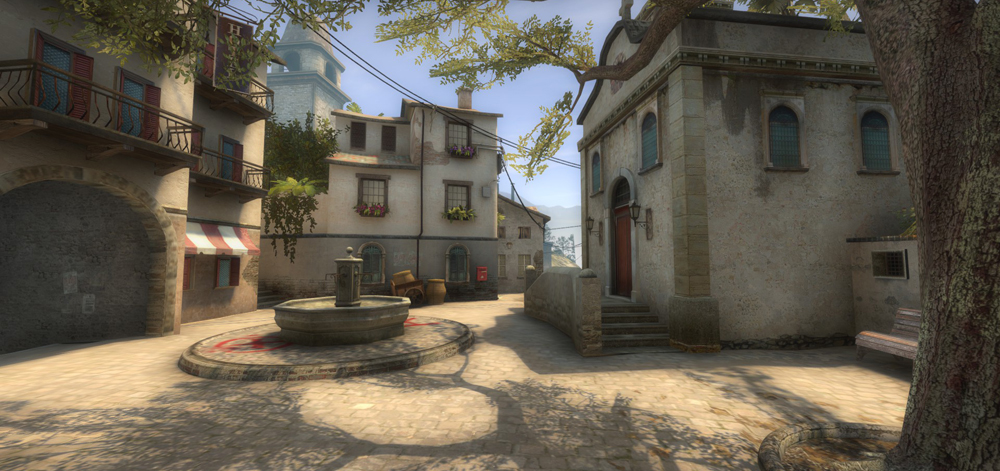
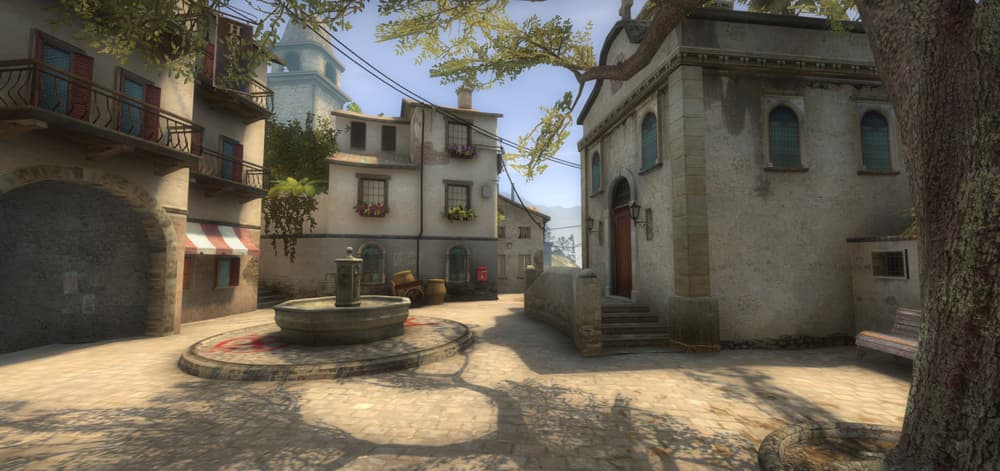
compress map screenshots
they look pretty similar when viewed at full resolution, and since they're a bit blurred maybe even better when used in the little .map things

used squoosh.app to compress

diff --git a/public/css/app.css b/public/css/app.css
@@ -1,1 +1,1 @@
-/*! normalize.css v8.0.1 | MIT License | github.com/necolas/normalize.css */html{line-height:1.15;-webkit-text-size-adjust:100%}body{margin:0}main{display:block}h1{font-size:2em;margin:.67em 0}hr{box-sizing:content-box;height:0;overflow:visible}pre{font-family:monospace,monospace;font-size:1em}a{background-color:transparent}abbr[title]{border-bottom:none;text-decoration:underline;-webkit-text-decoration:underline dotted;text-decoration:underline dotted}b,strong{font-weight:bolder}code,kbd,samp{font-family:monospace,monospace;font-size:1em}small{font-size:80%}sub,sup{font-size:75%;line-height:0;position:relative;vertical-align:baseline}sub{bottom:-.25em}sup{top:-.5em}img{border-style:none}button,input,optgroup,select,textarea{font-family:inherit;font-size:100%;line-height:1.15;margin:0}button,input{overflow:visible}button,select{text-transform:none}[type=button],[type=reset],[type=submit],button{-webkit-appearance:button}[type=button]::-moz-focus-inner,[type=reset]::-moz-focus-inner,[type=submit]::-moz-focus-inner,button::-moz-focus-inner{border-style:none;padding:0}[type=button]:-moz-focusring,[type=reset]:-moz-focusring,[type=submit]:-moz-focusring,button:-moz-focusring{outline:1px dotted ButtonText}fieldset{padding:.35em .75em .625em}legend{box-sizing:border-box;color:inherit;display:table;max-width:100%;padding:0;white-space:normal}progress{vertical-align:baseline}textarea{overflow:auto}[type=checkbox],[type=radio]{box-sizing:border-box;padding:0}[type=number]::-webkit-inner-spin-button,[type=number]::-webkit-outer-spin-button{height:auto}[type=search]{-webkit-appearance:textfield;outline-offset:-2px}[type=search]::-webkit-search-decoration{-webkit-appearance:none}::-webkit-file-upload-button{-webkit-appearance:button;font:inherit}details{display:block}summary{display:list-item}[hidden],template{display:none}a{color:inherit}a:active,a:hover{text-decoration:none}.text-ellipsis{max-width:100%;overflow:hidden;text-overflow:ellipsis;white-space:nowrap}img.inline-flag{max-height:1em}.player-name{display:flex;align-items:center}.player-name.\--left img.inline-flag{margin-left:0}.player-name:not(.\--left){justify-content:flex-end}.player-name img.inline-flag{margin:0 .75ch}section:not(:last-child){margin-bottom:2rem}*,:after,:before{box-sizing:border-box;margin:0;padding:0}html{font-size:62.5%}body{background:#212121;color:#aeaeae;font:1.6rem/1.5em Source Sans Pro,sans-serif}.big-scoreboard td.team{text-align:center}.big-scoreboard td.team .name,.big-scoreboard td.team .total-score{font-size:2rem;line-height:3rem;font-weight:700}.big-scoreboard td.team .name img.flag{display:block;margin:0 auto}.big-scoreboard td.team .total-score{font-size:4rem;line-height:4rem}.big-scoreboard td.team img{height:1.5em;vertical-align:-.4em}.big-scoreboard td.team .additional-scores .score{display:inline-block;min-width:5ch;text-align:center}.big-scoreboard td.team .additional-scores img.side{max-height:1em;vertical-align:-.25em;width:auto}.big-scoreboard td.player-name-wrapper{max-width:20rem}.big-scoreboard td.player-name-wrapper .name-wrapper{max-width:100%}.cards{display:flex;flex-wrap:wrap;margin:0 -.75rem}.cards .card{border-radius:.3rem;margin:.75rem;padding-right:1.5rem}.cards .card:not(:last-child){border-right:2px solid #00f7e1}.cards .card .title{font-size:1.4rem;line-height:1.4rem;text-transform:uppercase;font-weight:600}.cards .card.\--highlighted .title{color:#00f7e1}.cards .card.\--alert .title{color:#f44}main{max-width:100vw;margin:2rem auto;padding:0 4rem}.filter{padding:.5rem 1rem;text-align:right;width:-webkit-max-content;width:-moz-max-content;width:max-content;margin:0 0 2rem auto;box-shadow:0 0 .5rem rgba(0,0,0,.25)}.filter,header{background:#333}header{display:flex;align-items:center;justify-content:space-between;padding-right:4rem}header a.logo{font-size:2rem;line-height:2rem;display:block;padding:2rem 4rem;text-decoration:none;font-weight:600}header nav ul{display:flex;align-items:center;justify-content:flex-end;list-style:none}header nav a{display:block;padding:.5rem 1rem}.input-group:not(:last-child){margin-bottom:2rem}button,input[type=datetime-local],input[type=number],input[type=text],select{padding:.6rem 1.2rem;font:inherit}.map{display:block;background:#333 50% no-repeat;background-size:cover;text-align:center}.map .inner{display:flex;flex-direction:column;justify-content:center;align-items:center;height:100%;padding:1rem 2rem;background:rgba(0,0,0,.65)}.map.\--hero{min-height:6.8rem;margin:2rem 0;box-shadow:0 0 .5rem rgba(0,0,0,.25)}.map.\--de_abbey{background-image:url(/images/de_abbey.png?96009e70d763990014efbe327e63d699)}.map.\--de_ali{background-image:url(/images/de_ali.jpg?f05df1f777507eec2b6631775c241bcb)}.map.\--de_anubis{background-image:url(/images/de_anubis.png?4809639146befab717a184e324c1012e)}.map.\--de_austria{background-image:url(/images/de_austria.png?d42e8eeb3acc81f5d314ce537cf69908)}.map.\--de_aztec{background-image:url(/images/de_aztec.png?75de34e331304df5a7886c46d23712a0)}.map.\--de_bank{background-image:url(/images/de_bank.png?aa8568a0f0616099289f2d6fb0f3249b)}.map.\--de_cache{background-image:url(/images/de_cache.png?fcb7b6ab7b6a0bff3c054cbdb2293e3a)}.map.\--de_canals{background-image:url(/images/de_canals.png?d1be341845a85df8c4b565fa6cebb22b)}.map.\--de_castle{background-image:url(/images/de_castle.png?7119a0ef28b8031b7d7bef7658b58961)}.map.\--de_cbble{background-image:url(/images/de_cbble.png?e6a76c010d052be92d05beaf23be456c)}.map.\--de_chlorine{background-image:url(/images/de_chlorine.png?ae72a6b21fa6b3e293cbf231dfea6392)}.map.\--de_dust2{background-image:url(/images/de_dust2.png?dd312fb7f28f31091327a9245b105d10)}.map.\--de_inferno{background-image:url(/images/de_inferno.png?799e4e361ec86b7fa24dd7eee3177a4c)}.map.\--de_lake{background-image:url(/images/de_lake.png?5ae4eb76a5c677a72b19aa0faadcd5f6)}.map.\--de_mirage{background-image:url(/images/de_mirage.png?dbe0d160ad7bd03f79220bd64fa4e63e)}.map.\--de_nuke{background-image:url(/images/de_nuke.png?a1537df28891e6960afc9eddc70bf95a)}.map.\--de_overpass{background-image:url(/images/de_overpass.png?31c5592227fa491736c08ac04ead86b5)}.map.\--de_safehouse{background-image:url(/images/de_safehouse.png?514d9830cd73df4c8b0241b3c1526a29)}.map.\--de_santorini{background-image:url(/images/de_santorini.png?e0732a20176b16d086a4a0dd2a5d4146)}.map.\--de_season{background-image:url(/images/de_season.png?7712e2bcc2dd914b03863eb43cb4ce74)}.map.\--de_shortdust{background-image:url(/images/de_shortdust.png?0c24df20322e4e6a296c1a9e8e3aacc6)}.map.\--de_shortnuke{background-image:url(/images/de_shortnuke.png?a1537df28891e6960afc9eddc70bf95a)}.map.\--de_stmarc{background-image:url(/images/de_stmarc.png?9df3f870ce35baf638fd7d6824ef7762)}.map.\--de_sugarcane{background-image:url(/images/de_sugarcane.png?1b9bc86b76d152a00a692ace2aaea843)}.map.\--de_train{background-image:url(/images/de_train.png?c544ac7d858f79e215d6a8c84ea4e05c)}.map.\--de_vertigo{background-image:url(/images/de_vertigo.png?71ca414bb30792b99651fb64cacefa29)}.map.\--de_zoo{background-image:url(/images/de_zoo.png?1dfde5c5f3936e30da3d24c11e934d4b)}.map.\--x_default{background-image:url(/images/random.png?0f9b9b2692e774ba0ac87b8e5a51e452)}a.map{box-shadow:0 0 .5rem rgba(0,0,0,.25);text-decoration:none}a.map:active .inner,a.map:hover .inner{background:rgba(0,0,0,.55);text-shadow:0 0 .2rem rgba(0,0,0,.75)}a.map .inner{transition:background-color .3s ease,text-shadow .3s ease}.matches-list{display:flex;justify-content:space-between;margin:0 -2rem}.matches-list a.match{display:block;flex-grow:2;flex-basis:0;margin:2rem}.matches-list a.match .score span{display:inline-block;min-width:3ch}.player-round-performance-graph .round{display:grid;grid-template-columns:1.5fr 1fr 12fr;grid-template-areas:"otherTeam roundMeta ownTeam"}.player-round-performance-graph .round-meta{grid-area:roundMeta}.player-round-performance-graph .event,.player-round-performance-graph .round-meta,.player-round-performance-graph .survived-win,.player-round-performance-graph .won-the-round{display:flex;flex-direction:column;justify-content:center;align-items:center}.player-round-performance-graph .team.\--other{grid-area:otherTeam;display:grid;grid-template-columns:auto 4rem;grid-template-areas:"wonTheRound survivedWin"}.player-round-performance-graph .team.\--own{grid-area:ownTeam;display:grid;grid-template-columns:4rem auto;grid-template-areas:"survivedWin events"}.player-round-performance-graph .won-the-round{grid-area:wonTheRound}.player-round-performance-graph .survived-win{padding:1rem}.player-round-performance-graph .events{grid-area:events;display:grid;grid-template-columns:6rem calc((100% - 6rem)/12) calc((100% - 6rem)/12) calc((100% - 6rem)/12) calc((100% - 6rem)/12) calc((100% - 6rem)/12) calc((100% - 6rem)/12) calc((100% - 6rem)/12) calc((100% - 6rem)/12) calc((100% - 6rem)/12) calc((100% - 6rem)/12) calc((100% - 6rem)/12) calc((100% - 6rem)/12)}.player-round-performance-graph .events .event{padding:1rem}.player-round-performance-graph .events .event.\--player-name{grid-area:1/2/1/14;font-size:2.5rem;line-height:3.125rem;font-weight:700;text-align:left;justify-content:flex-start;flex-direction:row;padding:1rem 2rem}.player-round-performance-graph .events .event.\--death{background:rgba(255,68,68,.35);color:#eaeaea}.player-round-performance-graph .events .event.\--death img.weapon{-webkit-filter:brightness(.9176);filter:brightness(.9176)}.player-round-performance-graph img{max-width:100%}.career-scores .filter label{padding:0 .5rem;cursor:pointer}.career-scores .filter label:last-of-type{padding-right:0}.career-scores .filter label input{margin-right:.5ch;vertical-align:-.1rem}.career-scores .included-map-images{display:flex}.career-scores .included-map-images .map{flex-grow:1;transition:opacity .3s ease,-webkit-filter .3s ease;transition:filter .3s ease,opacity .3s ease;transition:filter .3s ease,opacity .3s ease,-webkit-filter .3s ease}.career-scores .included-map-images .map:not(.\--active){-webkit-filter:grayscale(1);filter:grayscale(1);opacity:.6}.career-scores tbody td:first-child{max-width:16rem}.career-scores .weapon-kills-chart{display:grid}.career-scores .weapon-kills-chart .weapon-wrapper{position:relative}.career-scores .weapon-kills-chart .weapon-wrapper .tooltip,.career-scores .weapon-kills-chart .weapon-wrapper .tooltip:before,.career-scores .weapon-kills-chart .weapon-wrapper .weapon{background:#333}.career-scores .weapon-kills-chart .weapon-wrapper:nth-child(2n) .tooltip,.career-scores .weapon-kills-chart .weapon-wrapper:nth-child(2n) .tooltip:before,.career-scores .weapon-kills-chart .weapon-wrapper:nth-child(2n) .weapon{background:#444}.career-scores .weapon-kills-chart .weapon{height:100%}.career-scores .weapon-kills-chart .weapon:not(.\--empty){padding:1rem}.career-scores .weapon-kills-chart .weapon:not(:hover)+.tooltip-wrapper{display:none}.career-scores .weapon-kills-chart img{display:block;margin:0;height:1em}.career-scores .weapon-kills-chart .tooltip-wrapper{pointer-events:none;position:absolute;top:calc(-100% - 4rem);left:0;right:0;display:flex;justify-content:center}.career-scores .weapon-kills-chart .tooltip{width:10rem;padding:1rem 2rem;text-align:center;box-shadow:0 0 .5rem rgba(0,0,0,.25)}.career-scores .weapon-kills-chart .tooltip:before{content:"";height:1rem;width:1rem;display:block;position:absolute;bottom:-.5rem;left:calc(50% - .5rem);transform:rotate(45deg)}.career-scores .weapon-kills-chart .tooltip img{margin:0 auto}.round-graph .round,.round-graph .team-a,.round-graph .team-b{display:flex;justify-content:center}.round-graph .team-a,.round-graph .team-b{color:#000}.round-graph img{display:block;max-width:100%;margin:.25rem 0 .5rem}.round-graph .col{padding:0 .5rem;width:2.5rem;text-align:center}.round-graph .col:nth-child(15):not(:last-child),.round-graph .col:nth-child(30):not(:last-child),.round-graph .col:nth-child(36):not(:last-child),.round-graph .col:nth-child(42):not(:last-child),.round-graph .col:nth-child(48):not(:last-child),.round-graph .col:nth-child(54):not(:last-child),.round-graph .col:nth-child(60):not(:last-child){border-right:.2rem solid #eaeaea;width:2.7rem}.round-graph .col:nth-child(33):not(:last-child),.round-graph .col:nth-child(39):not(:last-child),.round-graph .col:nth-child(45):not(:last-child),.round-graph .col:nth-child(51):not(:last-child),.round-graph .col:nth-child(57):not(:last-child){border-right:.1rem solid #c7c7c7;width:2.6rem}.round-graph .col rect.dead{opacity:.25}.round-graph .col.\--t-color rect,.round-graph .col.\--t rect{fill:#fcdc55}.round-graph .col.\--ct-color rect,.round-graph .col.\--ct rect{fill:#46c8f3}.round-graph .round{font-size:1.2rem;line-height:1.2rem}.round-graph .team-a .col.\--t{background:linear-gradient(0deg,#fcdc55,transparent)}.round-graph .team-a .col.\--ct{background:linear-gradient(0deg,#46c8f3,transparent)}.round-graph .team-b .col.\--t{background:linear-gradient(180deg,#fcdc55,transparent)}.round-graph .team-b .col.\--ct{background:linear-gradient(180deg,#46c8f3,transparent)}.series{display:grid;grid-template-columns:4fr 2rem 4fr 1fr 4rem 1fr 4fr 2rem 4fr;grid-template-rows:auto auto auto;grid-template-areas:"playersA 0 name name name name name 1 playersB" "playersA 0 nameA scoreA 2 scoreB nameB 1 playersB" "matches matches matches matches matches matches matches matches matches";padding:2rem 4rem;background:#333;box-shadow:0 0 .5rem rgba(0,0,0,.25)}.series:not(:last-child){margin-bottom:2rem}.series a.series-name{grid-area:name;text-align:center;text-decoration:none}.series a.series-name h2{font-size:2.5rem;line-height:3.125rem;font-weight:700}.series a.series-name .small{display:grid;grid-template-columns:1fr 4rem 1fr;text-transform:uppercase;letter-spacing:.5rem;text-align:right}.series a.series-name .small :last-child{grid-area:1/3;text-align:left}.series .matches-list{grid-area:matches;margin-bottom:-2rem}.series .team-name,.series .team-score{display:flex;justify-content:center;align-items:center;text-align:center;font-weight:700}.series .team-name{grid-area:nameA;font-size:2.5rem;line-height:3.125rem}.series .team-name.\--b{grid-area:nameB}.series .team-name img{max-height:3rem;display:block;margin:0 auto}.series .team-score{grid-area:scoreA;font-size:4rem;line-height:4rem}.series .team-score.\--b{grid-area:scoreB}.series .players{grid-area:playersA;text-align:right;display:flex;flex-direction:column;justify-content:flex-end}.series .players.\--b{grid-area:playersB}.series .players.\--b .player-name{flex-direction:row-reverse;text-align:left}table{border-collapse:collapse}table tr:hover td:not(.team):not(.round-graph){background:hsla(0,0%,100%,.05)}table:not(.small){width:100%}table:not(.small) th{padding:0 1rem;white-space:nowrap;text-align:right}table:not(.small) th a{text-decoration:none}table:not(.small) th a:before{position:absolute;transform:translateX(calc(-100% - .5ch))}table:not(.small) th a.is-asc:before{content:"\25B4"}table:not(.small) th a.is-desc:before{content:"\25BE"}table:not(.small) td{padding:.5rem 1rem;text-align:right}table.small td{padding:.5rem 1rem}.team-round-performance-graph .round{grid-template-columns:1fr 10rem 1fr;grid-template-areas:"teamA roundMeta teamB"}.team-round-performance-graph .round.\--team-names .team{grid-template-areas:"0 0 0 name name name 1 score score"}.team-round-performance-graph .round.\--team-names .team.\--b{grid-template-areas:"score score 0 name name name 1 1 1"}.team-round-performance-graph .round.\--team-names .team .name,.team-round-performance-graph .round.\--team-names .team .score{display:flex;align-items:center;justify-content:center;padding:1rem 2rem}.team-round-performance-graph .round.\--team-names .team .name{grid-area:name;font-size:2.5rem;line-height:3.125rem;font-weight:700}.team-round-performance-graph .round.\--team-names .team .name img{max-height:3rem;vertical-align:-.25em}.team-round-performance-graph .round.\--team-names .team .score{grid-area:score;font-size:4rem;line-height:4rem;font-weight:700}.team-round-performance-graph .best-flash,.team-round-performance-graph .damage,.team-round-performance-graph .first-death,.team-round-performance-graph .first-kill,.team-round-performance-graph .flashes,.team-round-performance-graph .kill-order,.team-round-performance-graph .kills,.team-round-performance-graph .money-eq,.team-round-performance-graph .nades-thrown,.team-round-performance-graph .plant-defuse,.team-round-performance-graph .round-meta,.team-round-performance-graph .survived-win{display:flex;flex-direction:column;align-items:center;justify-content:center;padding:1rem}.team-round-performance-graph .team{grid-area:teamA;display:grid;grid-template-columns:calc((100% - 4rem)/7) calc((100% - 4rem)/14) calc((100% - 4rem)/10.5) calc((100% - 4rem)/14) calc((100% - 4rem)/7) calc((100% - 4rem)/7) calc((100% - 4rem)/7) calc((100% - 4rem)/10.5) calc((100% - 4rem)/10.5) 4rem;grid-template-rows:-webkit-min-content auto;grid-template-rows:min-content auto;grid-template-areas:"bestFlash flashes nadesThrown damage firstDeath firstKill kills plantDefuse moneyEq survivedWin" "bestFlash flashes nadesThrown damage killOrder killOrder kills plantDefuse moneyEq survivedWin"}.team-round-performance-graph .team.\--winner{color:#212121}.team-round-performance-graph .team.\--winner svg rect{fill:#000}.team-round-performance-graph .team.\--winner .kill-order img{-webkit-filter:brightness(.13);filter:brightness(.13)}.team-round-performance-graph .team.\--winner.\--ct{background:linear-gradient(270deg,rgba(70,200,243,.85),rgba(70,200,243,.5))}.team-round-performance-graph .team.\--winner.\--t{background:linear-gradient(270deg,rgba(252,220,85,.8),rgba(252,220,85,.45))}.team-round-performance-graph .team.\--b{grid-area:teamB;grid-template-columns:4rem calc((100% - 4rem)/10.5) calc((100% - 4rem)/10.5) calc((100% - 4rem)/7) calc((100% - 4rem)/7) calc((100% - 4rem)/7) calc((100% - 4rem)/14) calc((100% - 4rem)/10.5) calc((100% - 4rem)/14) calc((100% - 4rem)/7);grid-template-rows:-webkit-min-content auto;grid-template-rows:min-content auto;grid-template-areas:"survivedWin moneyEq plantDefuse kills firstKill firstDeath damage nadesThrown flashes bestFlash" "survivedWin moneyEq plantDefuse kills killOrder killOrder damage nadesThrown flashes bestFlash"}.team-round-performance-graph .team.\--b.\--winner{color:#212121}.team-round-performance-graph .team.\--b.\--winner.\--ct{background:linear-gradient(90deg,rgba(70,200,243,.85),rgba(70,200,243,.5))}.team-round-performance-graph .team.\--b.\--winner.\--t{background:linear-gradient(90deg,rgba(252,220,85,.8),rgba(252,220,85,.45))}.team-round-performance-graph .team.\--b .table{text-align:left}.team-round-performance-graph .team.\--b .table .row{grid-template-columns:2.5ch auto}.team-round-performance-graph .team.\--b .table .col:first-child{grid-area:1/2}.team-round-performance-graph .team.\--b .table .col:last-child{grid-area:1/1}.team-round-performance-graph .heading{grid-row-end:2!important}.team-round-performance-graph .table{text-align:right}.team-round-performance-graph .table .row{display:grid;grid-template-columns:auto 2.5ch}.team-round-performance-graph .table .row .col:first-child{grid-area:1/1}.team-round-performance-graph .table .row .col:last-child{grid-area:1/2}.team-round-performance-graph .kills{grid-area:kills}.team-round-performance-graph .first-kill{grid-area:firstKill}.team-round-performance-graph .first-death{grid-area:firstDeath}.team-round-performance-graph .damage{grid-area:damage}.team-round-performance-graph .plant-defuse{grid-area:plantDefuse}.team-round-performance-graph .nades-thrown{grid-area:nadesThrown}.team-round-performance-graph .flashes{grid-area:flashes}.team-round-performance-graph .best-flash{grid-area:bestFlash}.team-round-performance-graph .kill-order{grid-area:killOrder;padding-top:0;flex-direction:row;margin:-.25rem}.team-round-performance-graph .kill-order img{height:1em;margin:.25rem}.team-round-performance-graph .kill-order img.death{opacity:.5}.team-round-performance-graph .money-eq{grid-area:moneyEq}h1{font-size:4rem;line-height:5rem;margin:0}h2{font-size:2.25rem;line-height:2.8125rem;margin-bottom:1rem}.pre-title+h1{margin-top:0}.text-green{color:#0f0}.text-red{color:#f44}.vertical-performance-graph .round{display:grid;text-align:center}.vertical-performance-graph .round:nth-child(2n){background:#333}.vertical-performance-graph .round:nth-child(17):not(:last-child),.vertical-performance-graph .round:nth-child(32):not(:last-child),.vertical-performance-graph .round:nth-child(38):not(:last-child),.vertical-performance-graph .round:nth-child(44):not(:last-child),.vertical-performance-graph .round:nth-child(50):not(:last-child),.vertical-performance-graph .round:nth-child(56):not(:last-child),.vertical-performance-graph .round:nth-child(62):not(:last-child){border-bottom:.4rem solid #eaeaea}.vertical-performance-graph .round:nth-child(35):not(:last-child),.vertical-performance-graph .round:nth-child(41):not(:last-child),.vertical-performance-graph .round:nth-child(47):not(:last-child),.vertical-performance-graph .round:nth-child(53):not(:last-child),.vertical-performance-graph .round:nth-child(59):not(:last-child){border-bottom:.1rem solid #c7c7c7}.vertical-performance-graph img.bombsite,.vertical-performance-graph img.weapon,.vertical-performance-graph img.win-reason{-webkit-filter:brightness(.9176);filter:brightness(.9176)}.vertical-performance-graph .team svg rect{fill:#fff}.vertical-performance-graph .team svg rect.dead{opacity:.25}.vertical-performance-graph .team.\--winner{color:#212121}.vertical-performance-graph .team.\--winner svg rect{fill:#000}.vertical-performance-graph .team.\--winner img.bombsite,.vertical-performance-graph .team.\--winner img.weapon,.vertical-performance-graph .team.\--winner img.win-reason{-webkit-filter:brightness(.13);filter:brightness(.13)}.vertical-performance-graph .team.\--winner.\--ct{background:linear-gradient(270deg,rgba(70,200,243,.85),rgba(70,200,243,.5))}.vertical-performance-graph .team.\--winner.\--t{background:linear-gradient(270deg,rgba(252,220,85,.8),rgba(252,220,85,.45))}.vertical-performance-graph .sticky{position:-webkit-sticky;position:sticky;top:0;background:#212121;z-index:1;border-bottom:.2rem solid #000}.vertical-performance-graph .round-meta{grid-area:roundMeta}.vertical-performance-graph .round-meta .number{font-weight:700}.vertical-performance-graph .heading{font-size:1.4rem;line-height:1.4rem;text-transform:uppercase;font-weight:600}.vertical-performance-graph .survived-win{grid-area:survivedWin}.vertical-performance-graph .survived-win .img-spacer,.vertical-performance-graph .survived-win img{height:2rem;margin:1rem 0 0}.vertical-performance-graph .name-wrapper{max-width:100%}.vertical-performance-graph img.weapon{height:1em;vertical-align:-.1em}.vertical-performance-graph img.bombsite{max-height:1.5em;margin-top:.2rem}body.route-player,body.route-team{overflow-x:hidden}body.route-player .stat-date-note,body.route-team .stat-date-note{text-align:center;color:#888;margin:2rem 0}body.route-status table{margin:0 -1rem}
+/*! normalize.css v8.0.1 | MIT License | github.com/necolas/normalize.css */html{line-height:1.15;-webkit-text-size-adjust:100%}body{margin:0}main{display:block}h1{font-size:2em;margin:.67em 0}hr{box-sizing:content-box;height:0;overflow:visible}pre{font-family:monospace,monospace;font-size:1em}a{background-color:transparent}abbr[title]{border-bottom:none;text-decoration:underline;-webkit-text-decoration:underline dotted;text-decoration:underline dotted}b,strong{font-weight:bolder}code,kbd,samp{font-family:monospace,monospace;font-size:1em}small{font-size:80%}sub,sup{font-size:75%;line-height:0;position:relative;vertical-align:baseline}sub{bottom:-.25em}sup{top:-.5em}img{border-style:none}button,input,optgroup,select,textarea{font-family:inherit;font-size:100%;line-height:1.15;margin:0}button,input{overflow:visible}button,select{text-transform:none}[type=button],[type=reset],[type=submit],button{-webkit-appearance:button}[type=button]::-moz-focus-inner,[type=reset]::-moz-focus-inner,[type=submit]::-moz-focus-inner,button::-moz-focus-inner{border-style:none;padding:0}[type=button]:-moz-focusring,[type=reset]:-moz-focusring,[type=submit]:-moz-focusring,button:-moz-focusring{outline:1px dotted ButtonText}fieldset{padding:.35em .75em .625em}legend{box-sizing:border-box;color:inherit;display:table;max-width:100%;padding:0;white-space:normal}progress{vertical-align:baseline}textarea{overflow:auto}[type=checkbox],[type=radio]{box-sizing:border-box;padding:0}[type=number]::-webkit-inner-spin-button,[type=number]::-webkit-outer-spin-button{height:auto}[type=search]{-webkit-appearance:textfield;outline-offset:-2px}[type=search]::-webkit-search-decoration{-webkit-appearance:none}::-webkit-file-upload-button{-webkit-appearance:button;font:inherit}details{display:block}summary{display:list-item}[hidden],template{display:none}a{color:inherit}a:active,a:hover{text-decoration:none}.text-ellipsis{max-width:100%;overflow:hidden;text-overflow:ellipsis;white-space:nowrap}img.inline-flag{max-height:1em}.player-name{display:flex;align-items:center}.player-name.\--left img.inline-flag{margin-left:0}.player-name:not(.\--left){justify-content:flex-end}.player-name img.inline-flag{margin:0 .75ch}section:not(:last-child){margin-bottom:2rem}*,:after,:before{box-sizing:border-box;margin:0;padding:0}html{font-size:62.5%}body{background:#212121;color:#aeaeae;font:1.6rem/1.5em Source Sans Pro,sans-serif}.big-scoreboard td.team{text-align:center}.big-scoreboard td.team .name,.big-scoreboard td.team .total-score{font-size:2rem;line-height:3rem;font-weight:700}.big-scoreboard td.team .name img.flag{display:block;margin:0 auto}.big-scoreboard td.team .total-score{font-size:4rem;line-height:4rem}.big-scoreboard td.team img{height:1.5em;vertical-align:-.4em}.big-scoreboard td.team .additional-scores .score{display:inline-block;min-width:5ch;text-align:center}.big-scoreboard td.team .additional-scores img.side{max-height:1em;vertical-align:-.25em;width:auto}.big-scoreboard td.player-name-wrapper{max-width:20rem}.big-scoreboard td.player-name-wrapper .name-wrapper{max-width:100%}.cards{display:flex;flex-wrap:wrap;margin:0 -.75rem}.cards .card{border-radius:.3rem;margin:.75rem;padding-right:1.5rem}.cards .card:not(:last-child){border-right:2px solid #00f7e1}.cards .card .title{font-size:1.4rem;line-height:1.4rem;text-transform:uppercase;font-weight:600}.cards .card.\--highlighted .title{color:#00f7e1}.cards .card.\--alert .title{color:#f44}main{max-width:100vw;margin:2rem auto;padding:0 4rem}.filter{padding:.5rem 1rem;text-align:right;width:-webkit-max-content;width:-moz-max-content;width:max-content;margin:0 0 2rem auto;box-shadow:0 0 .5rem rgba(0,0,0,.25)}.filter,header{background:#333}header{display:flex;align-items:center;justify-content:space-between;padding-right:4rem}header a.logo{font-size:2rem;line-height:2rem;display:block;padding:2rem 4rem;text-decoration:none;font-weight:600}header nav ul{display:flex;align-items:center;justify-content:flex-end;list-style:none}header nav a{display:block;padding:.5rem 1rem}.input-group:not(:last-child){margin-bottom:2rem}button,input[type=datetime-local],input[type=number],input[type=text],select{padding:.6rem 1.2rem;font:inherit}.map{display:block;background:#333 50% no-repeat;background-size:cover;text-align:center}.map .inner{display:flex;flex-direction:column;justify-content:center;align-items:center;height:100%;padding:1rem 2rem;background:rgba(0,0,0,.65)}.map.\--hero{min-height:6.8rem;margin:2rem 0;box-shadow:0 0 .5rem rgba(0,0,0,.25)}.map.\--de_abbey{background-image:url(/images/de_abbey.jpg?fa9390fea2fe26c7d6c5c5d06106c33a)}.map.\--de_ali{background-image:url(/images/de_ali.jpg?28e16fb2ffbdffd351a47186fc083905)}.map.\--de_anubis{background-image:url(/images/de_anubis.jpg?b17d4f1e651dcba4d45dab0a995a9bab)}.map.\--de_austria{background-image:url(/images/de_austria.jpg?cc91da8100f26199925ed270e5eb2ac3)}.map.\--de_aztec{background-image:url(/images/de_aztec.jpg?a8de61de21758d74f026d859ab7f5867)}.map.\--de_bank{background-image:url(/images/de_bank.jpg?e6a4c62303ff463280fe58206f6075a9)}.map.\--de_cache{background-image:url(/images/de_cache.jpg?879329f6d49a7eb78e3ab91cfa271c1a)}.map.\--de_canals{background-image:url(/images/de_canals.jpg?1d404de01b560586e4424c2fa74df691)}.map.\--de_castle{background-image:url(/images/de_castle.jpg?0b5e824281adfe2442291726cb049123)}.map.\--de_cbble{background-image:url(/images/de_cbble.jpg?f60b1b4f67bf6a8bdc3783b0519aa5d0)}.map.\--de_chlorine{background-image:url(/images/de_chlorine.jpg?c4cd31399c849dd1beaeb00bbb733c80)}.map.\--de_dust2{background-image:url(/images/de_dust2.jpg?2f8b74ae082744dcfccc59c7f55de13e)}.map.\--de_inferno{background-image:url(/images/de_inferno.jpg?b27da82e92c5989e3377e6c9ba0db257)}.map.\--de_lake{background-image:url(/images/de_lake.jpg?108bcf90a2047a400845262a9d6ac38b)}.map.\--de_mirage{background-image:url(/images/de_mirage.jpg?fa9d2765706af43c0ba8535dab2a123f)}.map.\--de_nuke{background-image:url(/images/de_nuke.jpg?054dd8ce170e4f8291127a01d7a7cadb)}.map.\--de_overpass{background-image:url(/images/de_overpass.jpg?49df3cec867c963aff1761a0f7b1ed33)}.map.\--de_safehouse{background-image:url(/images/de_safehouse.jpg?5202ffe66aef8c4530bfe71e8aa6fbdf)}.map.\--de_santorini{background-image:url(/images/de_santorini.jpg?626a3ae6e6dc4c2e5a78174568aab289)}.map.\--de_season{background-image:url(/images/de_season.jpg?d8a21d6d9eb02572bf7b27ffeecf6f3f)}.map.\--de_shortdust{background-image:url(/images/de_shortdust.jpg?c04f7ab51c70e8168ce1ffdedfce4cc2)}.map.\--de_shortnuke{background-image:url(/images/de_shortnuke.jpg?054dd8ce170e4f8291127a01d7a7cadb)}.map.\--de_stmarc{background-image:url(/images/de_stmarc.jpg?410ec622e0138a2067b668a1a6fa71cc)}.map.\--de_sugarcane{background-image:url(/images/de_sugarcane.jpg?c3749903b58f250cdae403c97ef11000)}.map.\--de_train{background-image:url(/images/de_train.jpg?e2afe3efc17278a0409694ae49c1dbc3)}.map.\--de_vertigo{background-image:url(/images/de_vertigo.jpg?adf4c4082a56e60e04cee97bc7dadcac)}.map.\--de_zoo{background-image:url(/images/de_zoo.jpg?f72e62cd4f8bcfbd0f3adfd222b747b7)}.map.\--x_default{background-image:url(/images/random.jpg?6bc697a4ddefb04058de6eae13925aef)}a.map{box-shadow:0 0 .5rem rgba(0,0,0,.25);text-decoration:none}a.map:active .inner,a.map:hover .inner{background:rgba(0,0,0,.55);text-shadow:0 0 .2rem rgba(0,0,0,.75)}a.map .inner{transition:background-color .3s ease,text-shadow .3s ease}.matches-list{display:flex;justify-content:space-between;margin:0 -2rem}.matches-list a.match{display:block;flex-grow:2;flex-basis:0;margin:2rem}.matches-list a.match .score span{display:inline-block;min-width:3ch}.player-round-performance-graph .round{display:grid;grid-template-columns:1.5fr 1fr 12fr;grid-template-areas:"otherTeam roundMeta ownTeam"}.player-round-performance-graph .round-meta{grid-area:roundMeta}.player-round-performance-graph .event,.player-round-performance-graph .round-meta,.player-round-performance-graph .survived-win,.player-round-performance-graph .won-the-round{display:flex;flex-direction:column;justify-content:center;align-items:center}.player-round-performance-graph .team.\--other{grid-area:otherTeam;display:grid;grid-template-columns:auto 4rem;grid-template-areas:"wonTheRound survivedWin"}.player-round-performance-graph .team.\--own{grid-area:ownTeam;display:grid;grid-template-columns:4rem auto;grid-template-areas:"survivedWin events"}.player-round-performance-graph .won-the-round{grid-area:wonTheRound}.player-round-performance-graph .survived-win{padding:1rem}.player-round-performance-graph .events{grid-area:events;display:grid;grid-template-columns:6rem calc((100% - 6rem)/12) calc((100% - 6rem)/12) calc((100% - 6rem)/12) calc((100% - 6rem)/12) calc((100% - 6rem)/12) calc((100% - 6rem)/12) calc((100% - 6rem)/12) calc((100% - 6rem)/12) calc((100% - 6rem)/12) calc((100% - 6rem)/12) calc((100% - 6rem)/12) calc((100% - 6rem)/12)}.player-round-performance-graph .events .event{padding:1rem}.player-round-performance-graph .events .event.\--player-name{grid-area:1/2/1/14;font-size:2.5rem;line-height:3.125rem;font-weight:700;text-align:left;justify-content:flex-start;flex-direction:row;padding:1rem 2rem}.player-round-performance-graph .events .event.\--death{background:rgba(255,68,68,.35);color:#eaeaea}.player-round-performance-graph .events .event.\--death img.weapon{-webkit-filter:brightness(.9176);filter:brightness(.9176)}.player-round-performance-graph img{max-width:100%}.career-scores .filter label{padding:0 .5rem;cursor:pointer}.career-scores .filter label:last-of-type{padding-right:0}.career-scores .filter label input{margin-right:.5ch;vertical-align:-.1rem}.career-scores .included-map-images{display:flex}.career-scores .included-map-images .map{flex-grow:1;transition:opacity .3s ease,-webkit-filter .3s ease;transition:filter .3s ease,opacity .3s ease;transition:filter .3s ease,opacity .3s ease,-webkit-filter .3s ease}.career-scores .included-map-images .map:not(.\--active){-webkit-filter:grayscale(1);filter:grayscale(1);opacity:.6}.career-scores tbody td:first-child{max-width:16rem}.career-scores .weapon-kills-chart{display:grid}.career-scores .weapon-kills-chart .weapon-wrapper{position:relative}.career-scores .weapon-kills-chart .weapon-wrapper .tooltip,.career-scores .weapon-kills-chart .weapon-wrapper .tooltip:before,.career-scores .weapon-kills-chart .weapon-wrapper .weapon{background:#333}.career-scores .weapon-kills-chart .weapon-wrapper:nth-child(2n) .tooltip,.career-scores .weapon-kills-chart .weapon-wrapper:nth-child(2n) .tooltip:before,.career-scores .weapon-kills-chart .weapon-wrapper:nth-child(2n) .weapon{background:#444}.career-scores .weapon-kills-chart .weapon{height:100%}.career-scores .weapon-kills-chart .weapon:not(.\--empty){padding:1rem}.career-scores .weapon-kills-chart .weapon:not(:hover)+.tooltip-wrapper{display:none}.career-scores .weapon-kills-chart img{display:block;margin:0;height:1em}.career-scores .weapon-kills-chart .tooltip-wrapper{pointer-events:none;position:absolute;top:calc(-100% - 4rem);left:0;right:0;display:flex;justify-content:center}.career-scores .weapon-kills-chart .tooltip{width:10rem;padding:1rem 2rem;text-align:center;box-shadow:0 0 .5rem rgba(0,0,0,.25)}.career-scores .weapon-kills-chart .tooltip:before{content:"";height:1rem;width:1rem;display:block;position:absolute;bottom:-.5rem;left:calc(50% - .5rem);transform:rotate(45deg)}.career-scores .weapon-kills-chart .tooltip img{margin:0 auto}.round-graph .round,.round-graph .team-a,.round-graph .team-b{display:flex;justify-content:center}.round-graph .team-a,.round-graph .team-b{color:#000}.round-graph img{display:block;max-width:100%;margin:.25rem 0 .5rem}.round-graph .col{padding:0 .5rem;width:2.5rem;text-align:center}.round-graph .col:nth-child(15):not(:last-child),.round-graph .col:nth-child(30):not(:last-child),.round-graph .col:nth-child(36):not(:last-child),.round-graph .col:nth-child(42):not(:last-child),.round-graph .col:nth-child(48):not(:last-child),.round-graph .col:nth-child(54):not(:last-child),.round-graph .col:nth-child(60):not(:last-child){border-right:.2rem solid #eaeaea;width:2.7rem}.round-graph .col:nth-child(33):not(:last-child),.round-graph .col:nth-child(39):not(:last-child),.round-graph .col:nth-child(45):not(:last-child),.round-graph .col:nth-child(51):not(:last-child),.round-graph .col:nth-child(57):not(:last-child){border-right:.1rem solid #c7c7c7;width:2.6rem}.round-graph .col rect.dead{opacity:.25}.round-graph .col.\--t-color rect,.round-graph .col.\--t rect{fill:#fcdc55}.round-graph .col.\--ct-color rect,.round-graph .col.\--ct rect{fill:#46c8f3}.round-graph .round{font-size:1.2rem;line-height:1.2rem}.round-graph .team-a .col.\--t{background:linear-gradient(0deg,#fcdc55,transparent)}.round-graph .team-a .col.\--ct{background:linear-gradient(0deg,#46c8f3,transparent)}.round-graph .team-b .col.\--t{background:linear-gradient(180deg,#fcdc55,transparent)}.round-graph .team-b .col.\--ct{background:linear-gradient(180deg,#46c8f3,transparent)}.series{display:grid;grid-template-columns:4fr 2rem 4fr 1fr 4rem 1fr 4fr 2rem 4fr;grid-template-rows:auto auto auto;grid-template-areas:"playersA 0 name name name name name 1 playersB" "playersA 0 nameA scoreA 2 scoreB nameB 1 playersB" "matches matches matches matches matches matches matches matches matches";padding:2rem 4rem;background:#333;box-shadow:0 0 .5rem rgba(0,0,0,.25)}.series:not(:last-child){margin-bottom:2rem}.series a.series-name{grid-area:name;text-align:center;text-decoration:none}.series a.series-name h2{font-size:2.5rem;line-height:3.125rem;font-weight:700}.series a.series-name .small{display:grid;grid-template-columns:1fr 4rem 1fr;text-transform:uppercase;letter-spacing:.5rem;text-align:right}.series a.series-name .small :last-child{grid-area:1/3;text-align:left}.series .matches-list{grid-area:matches;margin-bottom:-2rem}.series .team-name,.series .team-score{display:flex;justify-content:center;align-items:center;text-align:center;font-weight:700}.series .team-name{grid-area:nameA;font-size:2.5rem;line-height:3.125rem}.series .team-name.\--b{grid-area:nameB}.series .team-name img{max-height:3rem;display:block;margin:0 auto}.series .team-score{grid-area:scoreA;font-size:4rem;line-height:4rem}.series .team-score.\--b{grid-area:scoreB}.series .players{grid-area:playersA;text-align:right;display:flex;flex-direction:column;justify-content:flex-end}.series .players.\--b{grid-area:playersB}.series .players.\--b .player-name{flex-direction:row-reverse;text-align:left}table{border-collapse:collapse}table tr:hover td:not(.team):not(.round-graph){background:hsla(0,0%,100%,.05)}table:not(.small){width:100%}table:not(.small) th{padding:0 1rem;white-space:nowrap;text-align:right}table:not(.small) th a{text-decoration:none}table:not(.small) th a:before{position:absolute;transform:translateX(calc(-100% - .5ch))}table:not(.small) th a.is-asc:before{content:"\25B4"}table:not(.small) th a.is-desc:before{content:"\25BE"}table:not(.small) td{padding:.5rem 1rem;text-align:right}table.small td{padding:.5rem 1rem}.team-round-performance-graph .round{grid-template-columns:1fr 10rem 1fr;grid-template-areas:"teamA roundMeta teamB"}.team-round-performance-graph .round.\--team-names .team{grid-template-areas:"0 0 0 name name name 1 score score"}.team-round-performance-graph .round.\--team-names .team.\--b{grid-template-areas:"score score 0 name name name 1 1 1"}.team-round-performance-graph .round.\--team-names .team .name,.team-round-performance-graph .round.\--team-names .team .score{display:flex;align-items:center;justify-content:center;padding:1rem 2rem}.team-round-performance-graph .round.\--team-names .team .name{grid-area:name;font-size:2.5rem;line-height:3.125rem;font-weight:700}.team-round-performance-graph .round.\--team-names .team .name img{max-height:3rem;vertical-align:-.25em}.team-round-performance-graph .round.\--team-names .team .score{grid-area:score;font-size:4rem;line-height:4rem;font-weight:700}.team-round-performance-graph .best-flash,.team-round-performance-graph .damage,.team-round-performance-graph .first-death,.team-round-performance-graph .first-kill,.team-round-performance-graph .flashes,.team-round-performance-graph .kill-order,.team-round-performance-graph .kills,.team-round-performance-graph .money-eq,.team-round-performance-graph .nades-thrown,.team-round-performance-graph .plant-defuse,.team-round-performance-graph .round-meta,.team-round-performance-graph .survived-win{display:flex;flex-direction:column;align-items:center;justify-content:center;padding:1rem}.team-round-performance-graph .team{grid-area:teamA;display:grid;grid-template-columns:calc((100% - 4rem)/7) calc((100% - 4rem)/14) calc((100% - 4rem)/10.5) calc((100% - 4rem)/14) calc((100% - 4rem)/7) calc((100% - 4rem)/7) calc((100% - 4rem)/7) calc((100% - 4rem)/10.5) calc((100% - 4rem)/10.5) 4rem;grid-template-rows:-webkit-min-content auto;grid-template-rows:min-content auto;grid-template-areas:"bestFlash flashes nadesThrown damage firstDeath firstKill kills plantDefuse moneyEq survivedWin" "bestFlash flashes nadesThrown damage killOrder killOrder kills plantDefuse moneyEq survivedWin"}.team-round-performance-graph .team.\--winner{color:#212121}.team-round-performance-graph .team.\--winner svg rect{fill:#000}.team-round-performance-graph .team.\--winner .kill-order img{-webkit-filter:brightness(.13);filter:brightness(.13)}.team-round-performance-graph .team.\--winner.\--ct{background:linear-gradient(270deg,rgba(70,200,243,.85),rgba(70,200,243,.5))}.team-round-performance-graph .team.\--winner.\--t{background:linear-gradient(270deg,rgba(252,220,85,.8),rgba(252,220,85,.45))}.team-round-performance-graph .team.\--b{grid-area:teamB;grid-template-columns:4rem calc((100% - 4rem)/10.5) calc((100% - 4rem)/10.5) calc((100% - 4rem)/7) calc((100% - 4rem)/7) calc((100% - 4rem)/7) calc((100% - 4rem)/14) calc((100% - 4rem)/10.5) calc((100% - 4rem)/14) calc((100% - 4rem)/7);grid-template-rows:-webkit-min-content auto;grid-template-rows:min-content auto;grid-template-areas:"survivedWin moneyEq plantDefuse kills firstKill firstDeath damage nadesThrown flashes bestFlash" "survivedWin moneyEq plantDefuse kills killOrder killOrder damage nadesThrown flashes bestFlash"}.team-round-performance-graph .team.\--b.\--winner{color:#212121}.team-round-performance-graph .team.\--b.\--winner.\--ct{background:linear-gradient(90deg,rgba(70,200,243,.85),rgba(70,200,243,.5))}.team-round-performance-graph .team.\--b.\--winner.\--t{background:linear-gradient(90deg,rgba(252,220,85,.8),rgba(252,220,85,.45))}.team-round-performance-graph .team.\--b .table{text-align:left}.team-round-performance-graph .team.\--b .table .row{grid-template-columns:2.5ch auto}.team-round-performance-graph .team.\--b .table .col:first-child{grid-area:1/2}.team-round-performance-graph .team.\--b .table .col:last-child{grid-area:1/1}.team-round-performance-graph .heading{grid-row-end:2!important}.team-round-performance-graph .table{text-align:right}.team-round-performance-graph .table .row{display:grid;grid-template-columns:auto 2.5ch}.team-round-performance-graph .table .row .col:first-child{grid-area:1/1}.team-round-performance-graph .table .row .col:last-child{grid-area:1/2}.team-round-performance-graph .kills{grid-area:kills}.team-round-performance-graph .first-kill{grid-area:firstKill}.team-round-performance-graph .first-death{grid-area:firstDeath}.team-round-performance-graph .damage{grid-area:damage}.team-round-performance-graph .plant-defuse{grid-area:plantDefuse}.team-round-performance-graph .nades-thrown{grid-area:nadesThrown}.team-round-performance-graph .flashes{grid-area:flashes}.team-round-performance-graph .best-flash{grid-area:bestFlash}.team-round-performance-graph .kill-order{grid-area:killOrder;padding-top:0;flex-direction:row;margin:-.25rem}.team-round-performance-graph .kill-order img{height:1em;margin:.25rem}.team-round-performance-graph .kill-order img.death{opacity:.5}.team-round-performance-graph .money-eq{grid-area:moneyEq}h1{font-size:4rem;line-height:5rem;margin:0}h2{font-size:2.25rem;line-height:2.8125rem;margin-bottom:1rem}.pre-title+h1{margin-top:0}.text-green{color:#0f0}.text-red{color:#f44}.vertical-performance-graph .round{display:grid;text-align:center}.vertical-performance-graph .round:nth-child(2n){background:#333}.vertical-performance-graph .round:nth-child(17):not(:last-child),.vertical-performance-graph .round:nth-child(32):not(:last-child),.vertical-performance-graph .round:nth-child(38):not(:last-child),.vertical-performance-graph .round:nth-child(44):not(:last-child),.vertical-performance-graph .round:nth-child(50):not(:last-child),.vertical-performance-graph .round:nth-child(56):not(:last-child),.vertical-performance-graph .round:nth-child(62):not(:last-child){border-bottom:.4rem solid #eaeaea}.vertical-performance-graph .round:nth-child(35):not(:last-child),.vertical-performance-graph .round:nth-child(41):not(:last-child),.vertical-performance-graph .round:nth-child(47):not(:last-child),.vertical-performance-graph .round:nth-child(53):not(:last-child),.vertical-performance-graph .round:nth-child(59):not(:last-child){border-bottom:.1rem solid #c7c7c7}.vertical-performance-graph img.bombsite,.vertical-performance-graph img.weapon,.vertical-performance-graph img.win-reason{-webkit-filter:brightness(.9176);filter:brightness(.9176)}.vertical-performance-graph .team svg rect{fill:#fff}.vertical-performance-graph .team svg rect.dead{opacity:.25}.vertical-performance-graph .team.\--winner{color:#212121}.vertical-performance-graph .team.\--winner svg rect{fill:#000}.vertical-performance-graph .team.\--winner img.bombsite,.vertical-performance-graph .team.\--winner img.weapon,.vertical-performance-graph .team.\--winner img.win-reason{-webkit-filter:brightness(.13);filter:brightness(.13)}.vertical-performance-graph .team.\--winner.\--ct{background:linear-gradient(270deg,rgba(70,200,243,.85),rgba(70,200,243,.5))}.vertical-performance-graph .team.\--winner.\--t{background:linear-gradient(270deg,rgba(252,220,85,.8),rgba(252,220,85,.45))}.vertical-performance-graph .sticky{position:-webkit-sticky;position:sticky;top:0;background:#212121;z-index:1;border-bottom:.2rem solid #000}.vertical-performance-graph .round-meta{grid-area:roundMeta}.vertical-performance-graph .round-meta .number{font-weight:700}.vertical-performance-graph .heading{font-size:1.4rem;line-height:1.4rem;text-transform:uppercase;font-weight:600}.vertical-performance-graph .survived-win{grid-area:survivedWin}.vertical-performance-graph .survived-win .img-spacer,.vertical-performance-graph .survived-win img{height:2rem;margin:1rem 0 0}.vertical-performance-graph .name-wrapper{max-width:100%}.vertical-performance-graph img.weapon{height:1em;vertical-align:-.1em}.vertical-performance-graph img.bombsite{max-height:1.5em;margin-top:.2rem}body.route-player,body.route-team{overflow-x:hidden}body.route-player .stat-date-note,body.route-team .stat-date-note{text-align:center;color:#888;margin:2rem 0}body.route-status table{margin:0 -1rem}
